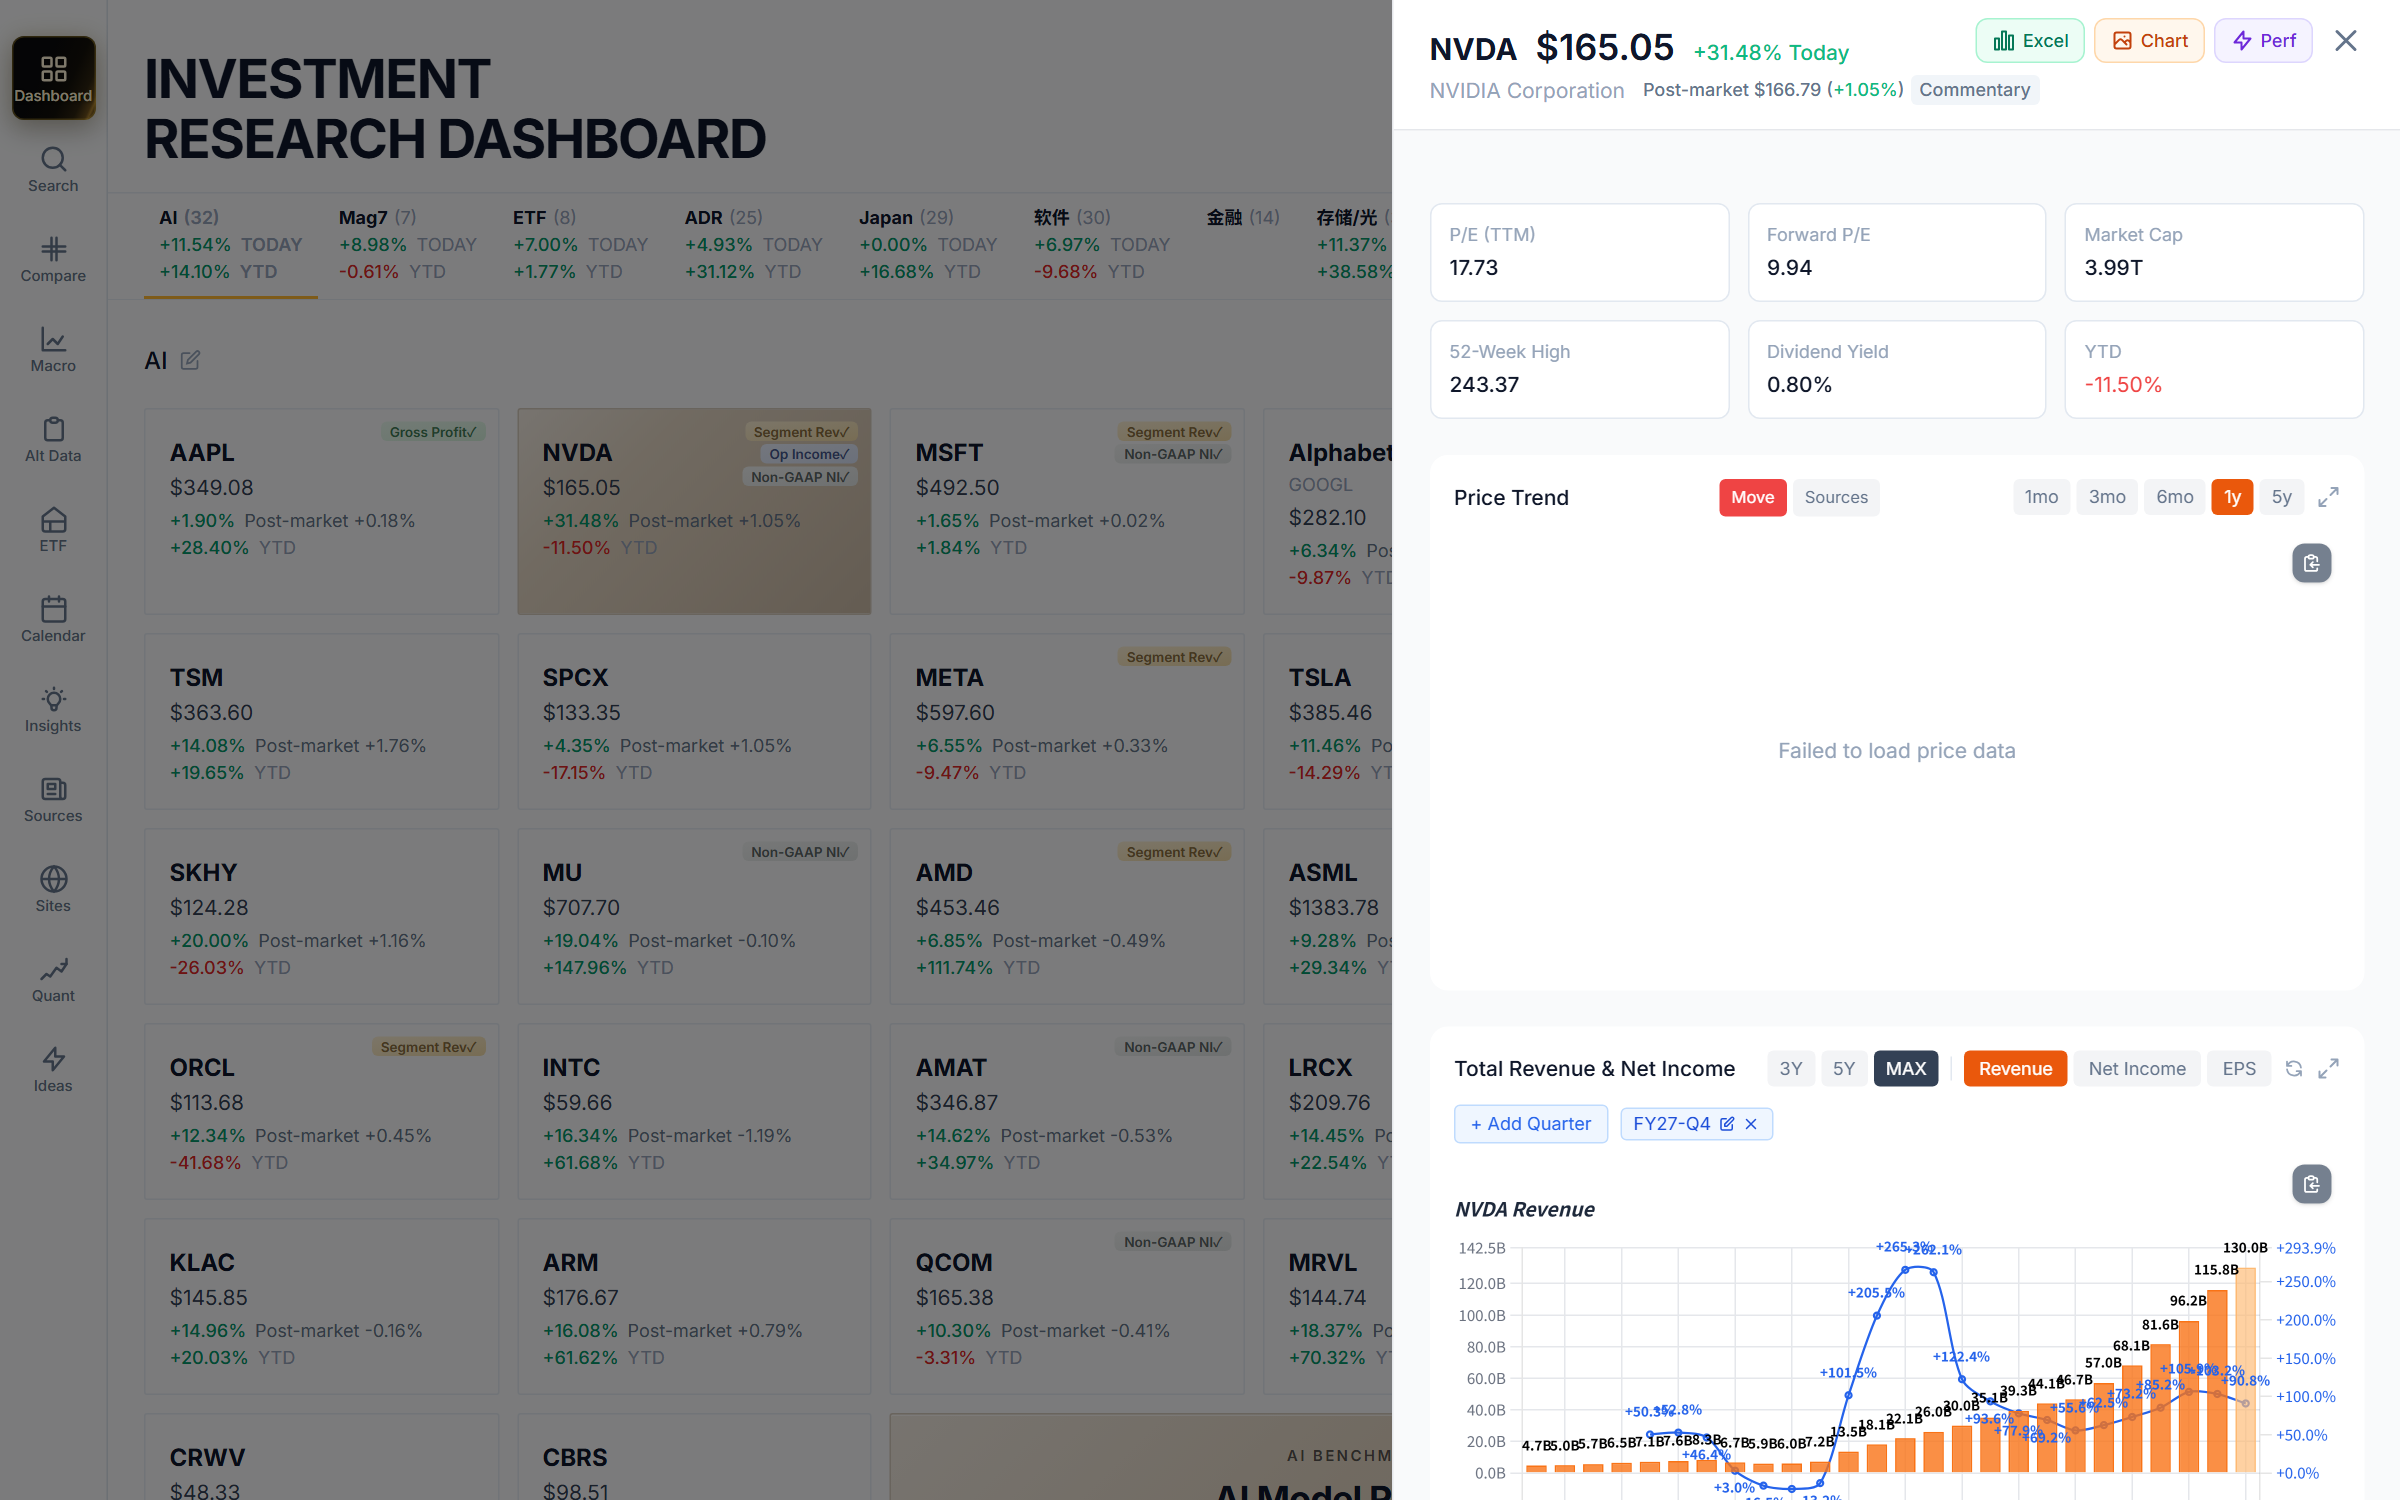
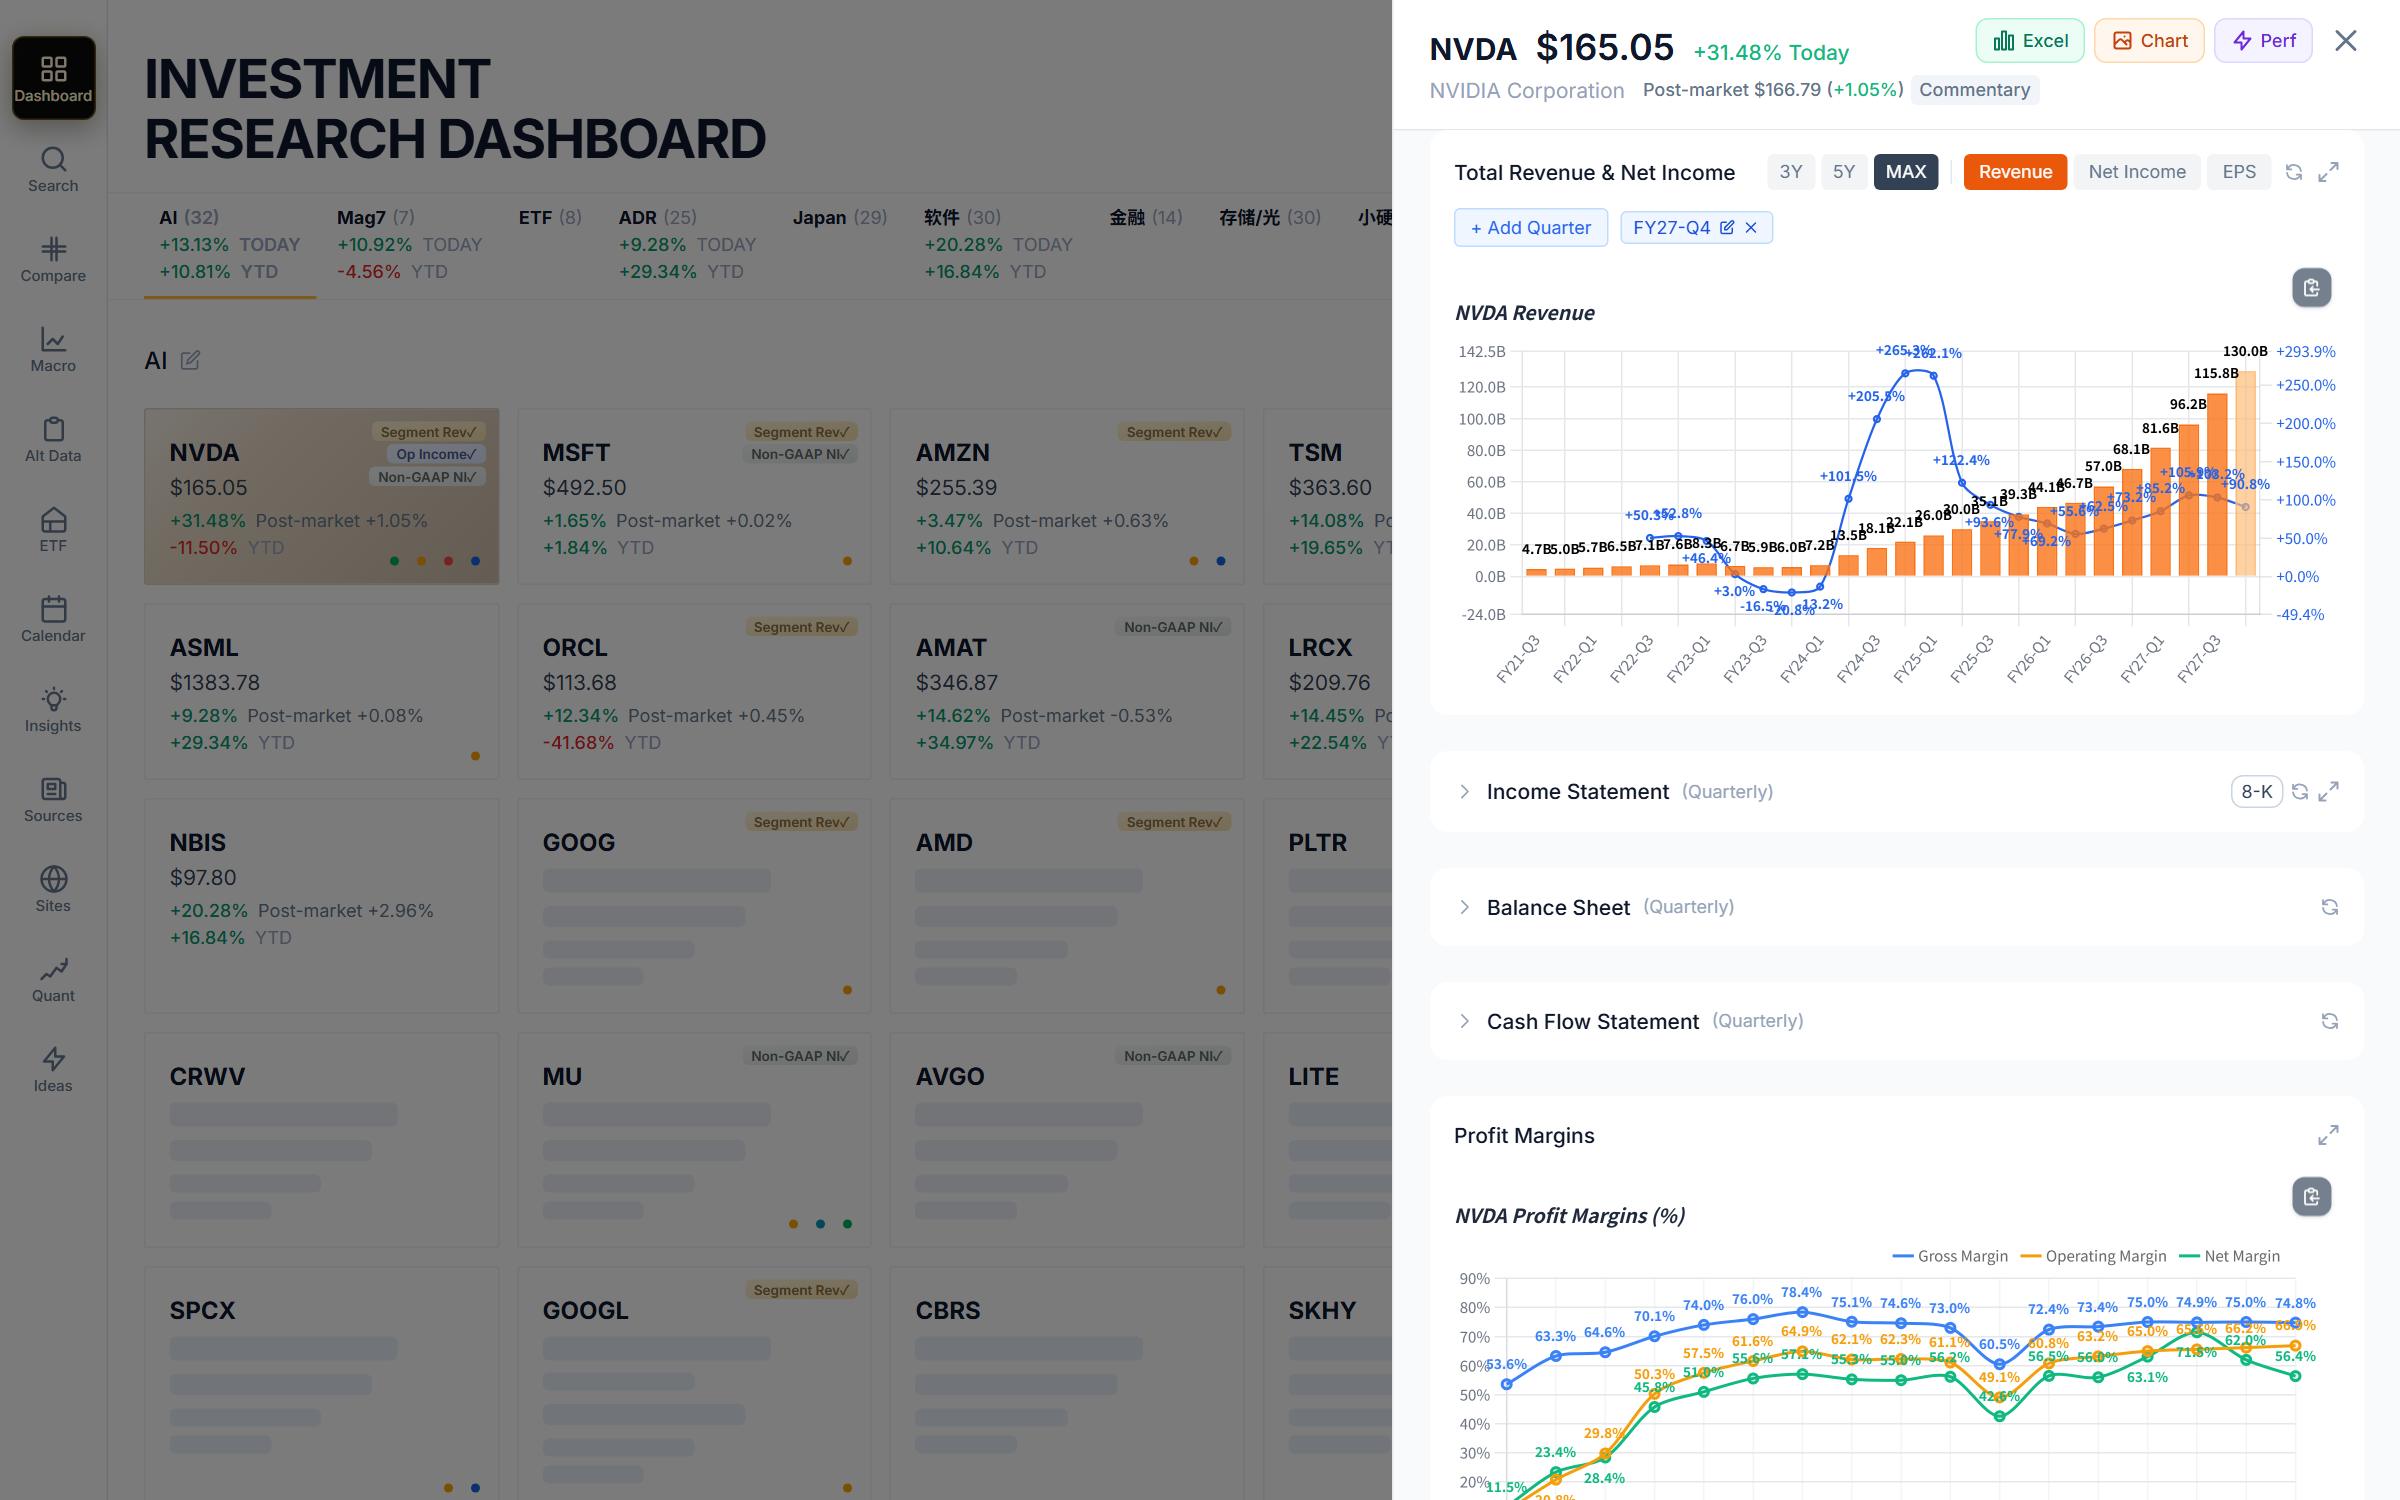
docs: 个股截图改为财报可视化区, 新增宏观页截图

diff --git a/README.md b/README.md
@@ -43,14 +43,17 @@ That pays off in three ways:
 
 Beyond single names, the dashboard tracks the wider context:
 
+- **Macro series** — rates, inflation, FX majors and precious metals from FRED,
+  with an early-warning panel for growth and inflation surprises, and a
+  multi-select chart that overlays any combination of series on a shared axis
 - **GPU pricing** — real-time cloud compute pricing across providers, tracked as a
   time series rather than a one-off snapshot
 - **AI model rankings** — intelligence index vs. cost-per-task, with a Pareto
   frontier separating US and Chinese model families
-- **Macro series** — rates, inflation, FX majors and precious metals, pulled from
-  FRED and plotted on a shared axis for side-by-side comparison
 - **Non-standard datasets** — alt-data feeds and custom series that don't fit a
   standard financial data model
+
+![Macro](screenshots/macro.png)
 
 ![Insights](screenshots/topics.png)
 
